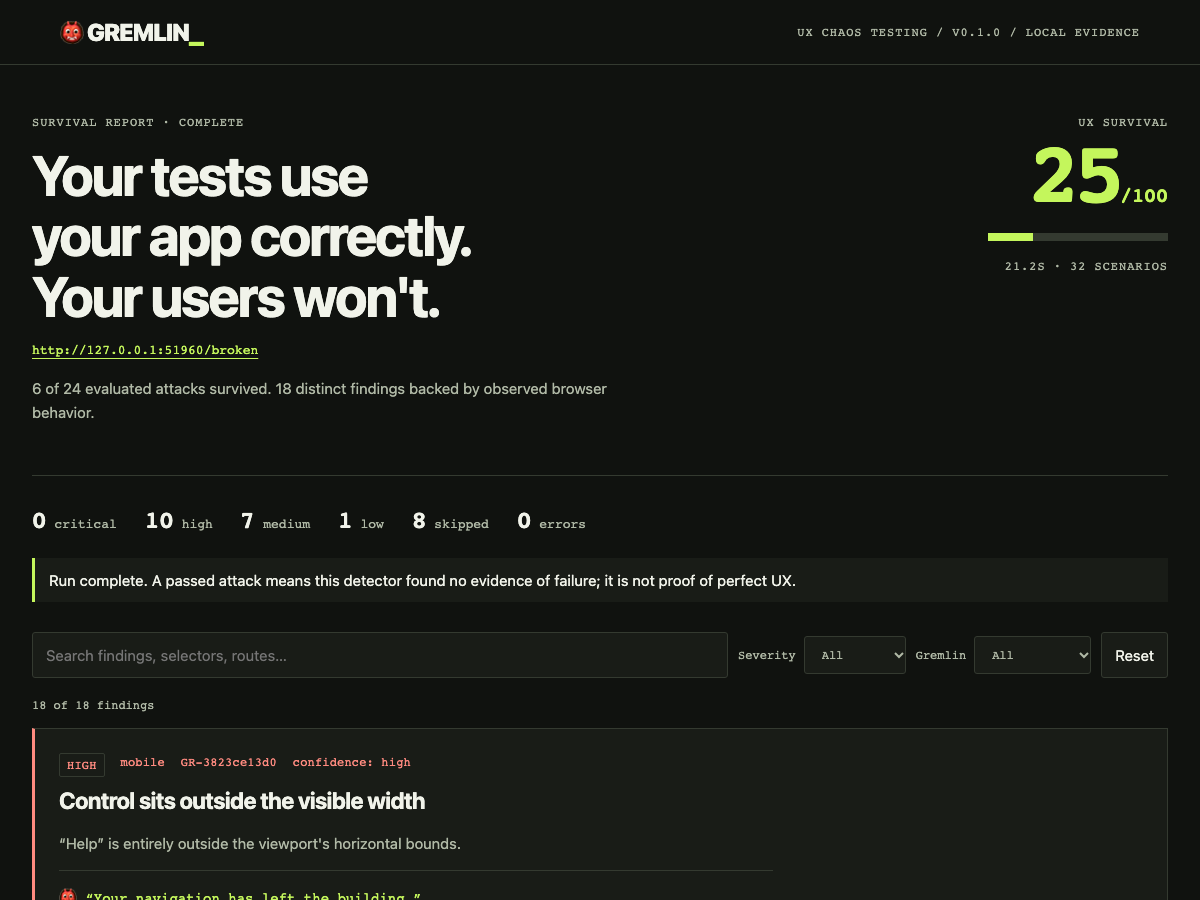
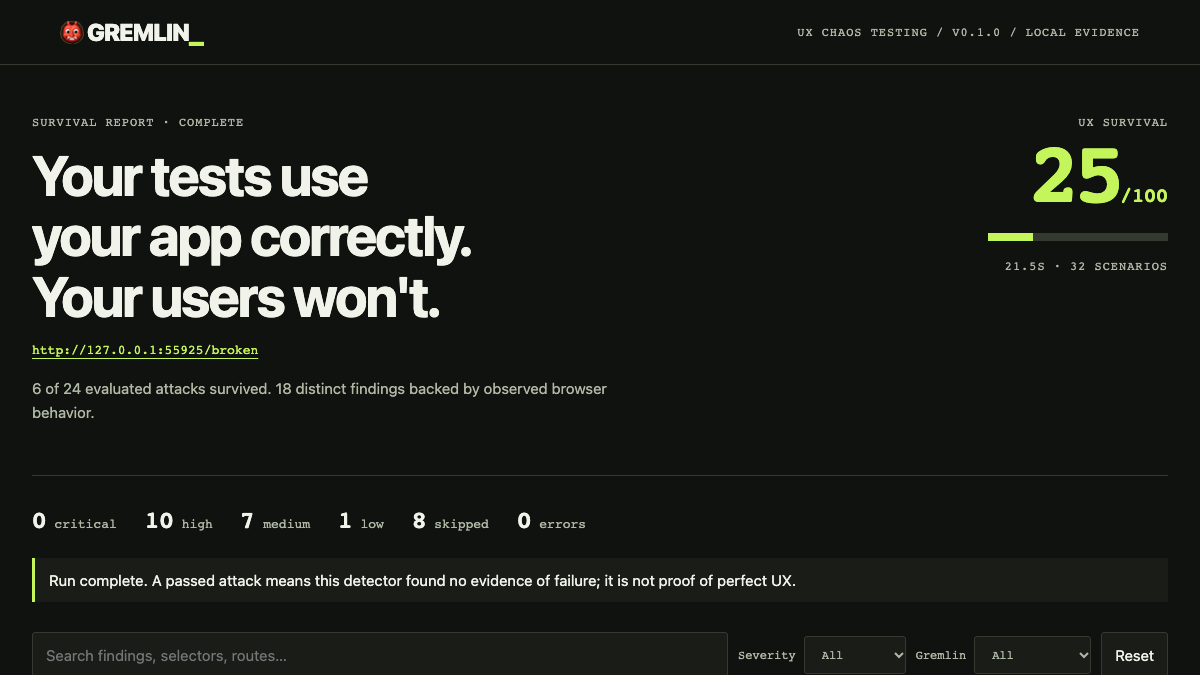
Improve onboarding demo and quickstart

diff --git a/README.md b/README.md
@@ -7,12 +7,41 @@
 
 ![Real Gremlin run: CLI output, mobile screenshot evidence, and report](assets/demo.gif)
 
-_15-second replay of real run artifacts. No invented findings or scores._
+_A real Gremlin demo: one command → five UX attacks → evidence → report. No invented findings or scores._
+
+## Start here
+
+Gremlin is not published to npm yet, so the source install is the verified path today:
 
 ```sh
-# After the first npm release:
+git clone https://github.com/HyperOrb/gremlin-ui.git
+cd gremlin-ui
+npm ci
+```
+
+Want to see it work before pointing it at your own app?
+
+```sh
+npm run demo
+```
+
+That launches a disposable broken app, attacks it with all five Gremlins, runs the same checks against the fixed version, and writes real reports under `artifacts/`.
+
+Ready to test your own local app? Start your app normally, then run:
+
+```sh
+npm run gremlin -- http://localhost:3000
+```
+
+Then open `gremlin-report/report.html`. That's the whole basic workflow.
+
+Once the package is published, the same flow becomes:
+
+```sh
 npx gremlin-ui http://localhost:3000
 ```
+
+**What happens after you press Enter:** Gremlin opens a real browser, runs Mobile → Forms → Navigation → Keyboard → Chaos checks, saves screenshot evidence for strong findings, then writes terminal, HTML, and JSON reports locally.
 
 **You can't write a test for a bug you never imagined.**
 
@@ -20,20 +49,15 @@ Gremlin is **UX chaos testing**: fuzz testing, but for UX. It launches a real br
 
 It gives you observed failures, screenshots, selectors, reproduction steps and explanations. It runs locally with **no AI, API key, account, uploads, or analytics**. MIT licensed.
 
-> v0.1.0 is prepared but not published. The npm name was checked, not reserved. Use the working source-install commands below today.
+> v0.1.0 is prepared but not published to npm. The npm name was checked, not reserved. The GitHub source-install flow above is verified today.
 
 ## Try the real demo
 
-Node.js 22+ and npm:
+Already cloned the repo? Run:
 
 ```sh
-git clone https://github.com/HyperOrb/gremlin-ui.git
-cd gremlin-ui
-npm ci
 npm run demo
 ```
-
-_The clone URL is the intended launch repository; it has not been created yet. For this unpublished checkout, start with `cd /path/to/gremlin-ui` and the last two commands._
 
 The demo starts its own server on a free port, runs Gremlin against the **broken and fixed** Fieldnotes app, writes both reports, checks that no writes reached its backend, and stops its own server. On first use Gremlin installs only the Chromium headless shell if needed, with a clear message. Headed runs install the full browser separately. Download time depends on your connection; the under-60-second first-run target is not a guaranteed benchmark.
 
@@ -44,11 +68,10 @@ Open `artifacts/broken/report.html` and `artifacts/fixed/report.html`. Every fin
 Start your local app, then run from this checkout:
 
 ```sh
-npm run build
-node dist/cli/index.js http://localhost:3000
+npm run gremlin -- http://localhost:3000
 ```
 
-Or install the local package:
+Prefer a global local install while npm publishing is pending?
 
 ```sh
 npm pack
@@ -143,7 +166,7 @@ npm ci
 npx playwright install chromium
 npm test
 npm run format:check
-npm run demo:capture   # ffmpeg required; actual 15-second artifact replay
+npm run demo:capture   # ffmpeg required; short artifact replay from real demo output
 npm pack --dry-run
 ```
 

diff --git a/docs/validation.md b/docs/validation.md
@@ -11,7 +11,7 @@ Verified locally on 2026-10-10, macOS arm64. Node 26.0.0 and 22.23.3; Playwright
 - Real CLI fixed run: **100/100**, 23/23 evaluated attacks survived; 0 findings; 9 skipped; 0 errors; 22.5 seconds.
 - Common evaluated coverage: **6/23 → 23/23 survived**. The fixed custom-control attack becomes a skip because the control is now native; we do not count a skip as proof of repair.
 - Both runs produced HTML, JSON, metadata, actual screenshot evidence, and CLI transcripts. Backend writes **0**; dangerous actions **0**.
-- README GIF is a real 15-second artifact replay; generated and visually inspected report overview accompanies it. No live-video claim.
+- README GIF is an 18.5-second artifact replay built from the real demo outputs; all eight onboarding frames and the generated report overview were visually inspected. No live-video claim.
 - A packed tarball was installed in an isolated temporary directory. Its generated executable bin printed its version and completed a real four-viewport mobile scan with no findings. The temporary installation was removed after testing. The final packed CLI also verified `--fail-on high`: exit 0 for the fixed mobile fixture, exit 1 for the broken mobile fixture.
 - Actual automatic browser install into a fresh OS temporary cache succeeded, followed by a four-viewport mobile scan. Total **85.7s** including downloads; the under-60-second target was **not achieved on this connection**. Headless setup downloads only the headless shell, not the full browser. The fresh cache was removed after testing.
 - Two earlier custom-cache installs under the workspace failed with a Playwright lock-update error. A full-browser cold-download experiment was canceled in favor of the smaller headless install. The CLI now prints concise install errors and preserves existing cached browser revisions; standard cache/OS temporary cache is recommended.
@@ -80,4 +80,4 @@ Multiple observations can describe one root cause on different routes/viewports.
 
 ## Remaining limits
 
-This is an early heuristic engine, not proof of perfect UX. Inert-control, focus and history warnings require manual review. State-changing GETs and arbitrary app code are outside a complete sandbox guarantee. External assets/APIs are deliberately blocked. Full modal trapping, semantic state loss, offline and slow-network oracles remain future work. Windows, hosted Linux CI, and client-specific Agent Skill execution are unverified. Nothing was published externally.
+This is an early heuristic engine, not proof of perfect UX. Inert-control, focus and history warnings require manual review. State-changing GETs and arbitrary app code are outside a complete sandbox guarantee. External assets/APIs are deliberately blocked. Full modal trapping, semantic state loss, offline and slow-network oracles remain future work. Windows, hosted Linux CI, and client-specific Agent Skill execution are unverified. The source repository is public on GitHub; the npm package has not been published.

diff --git a/docs/demo.md b/docs/demo.md
@@ -24,6 +24,8 @@ node dist/cli/index.js http://127.0.0.1:4177/fixed --max-pages 2 --output gremli
 npm run demo:capture
 ```
 
-Requires `ffmpeg` on PATH in addition to Chromium. The script reruns the demo, renders the actual CLI transcript and a real screenshot, captures the generated HTML report, and produces a 15-second GIF at `assets/demo.gif`. This is explicitly an **artifact replay**, not footage of live interaction. It also saves a real report overview at `assets/report.png`. The transcript and source frames remain in `artifacts/capture/` for inspection.
+Requires `ffmpeg` on PATH in addition to Chromium. The script reruns the demo, renders the actual CLI transcript and a real screenshot, captures the generated HTML report, and produces a short GIF at `assets/demo.gif`. This is explicitly an **artifact replay**, not footage of live interaction. It also saves a real report overview at `assets/report.png`. The transcript and source frames remain in `artifacts/capture/` for inspection.
+
+The README GIF is structured as a first-run story rather than a generic slideshow: run one command, watch the five Gremlins execute, inspect one real finding, see the generated report, then see the before/after rerun. Instructional labels are presentation only; detector output, findings, scores, evidence, and comparison numbers come from the fresh demo artifacts.
 
 If ffmpeg is absent, screenshots still exist; install it and run `node scripts/capture.mjs` without rerunning the engine. For live footage instead, record the headed command above with your screen recorder. Use a disposable app and redact private tabs. No generated or embellished detector results belong in demo media.

diff --git a/docs/research.md b/docs/research.md
@@ -10,6 +10,6 @@ Checked 2026-10-10. Availability is a snapshot, not a reservation or legal asses
 
 Direct npm registry checks returned 404 for `gremlin-ui`, `gremlin-ux`, `gremlin-test`, and `try-gremlin`; `gremlin-run` returned 200. Chosen package: **gremlin-ui**. Registry endpoint: https://registry.npmjs.org/gremlin-ui . Recheck immediately before publication.
 
-GitHub repository search for `gremlin ux testing` returned two related results; repository names are scoped to owners. Metadata points to the intended `HyperOrb/gremlin-ui` repository, based on the authenticated GitHub account. No remote repository has been created, and no package has been published.
+GitHub repository search for `gremlin ux testing` returned two related results; repository names are scoped to owners. The project is now published at `HyperOrb/gremlin-ui`. The npm package has not been published.
 
 Differentiation: five deterministic families, a conservative browser guard, report evidence with confidence levels, a real broken/fixed fixture, and a portable agent repair loop. No cloud model, API key, novelty claim, or synthetic benchmark.
